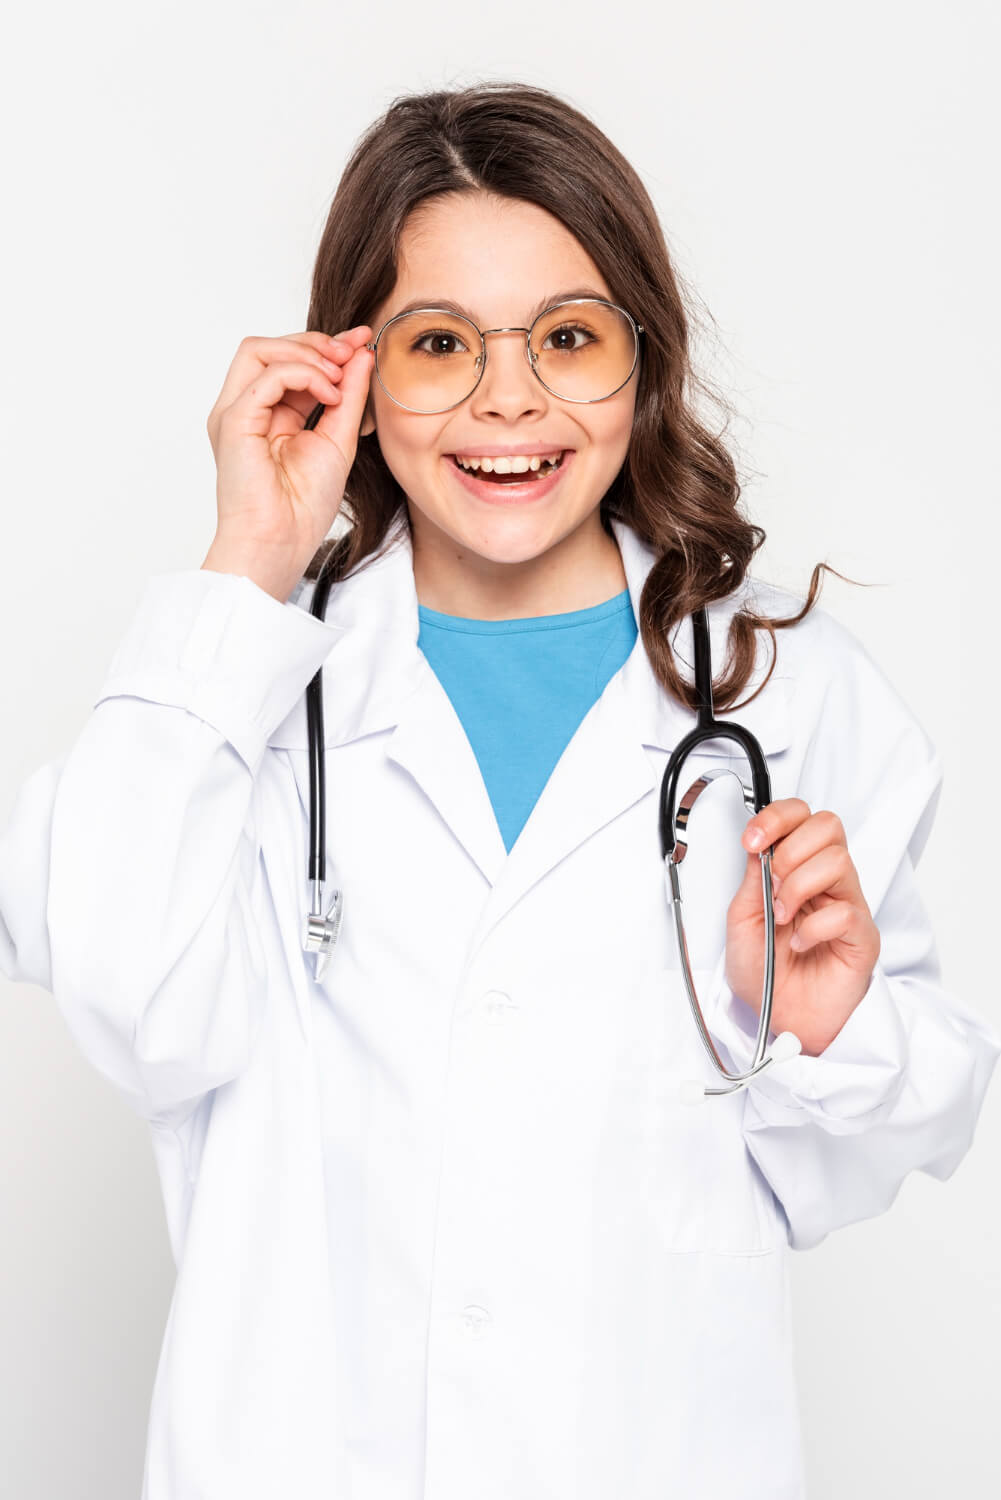
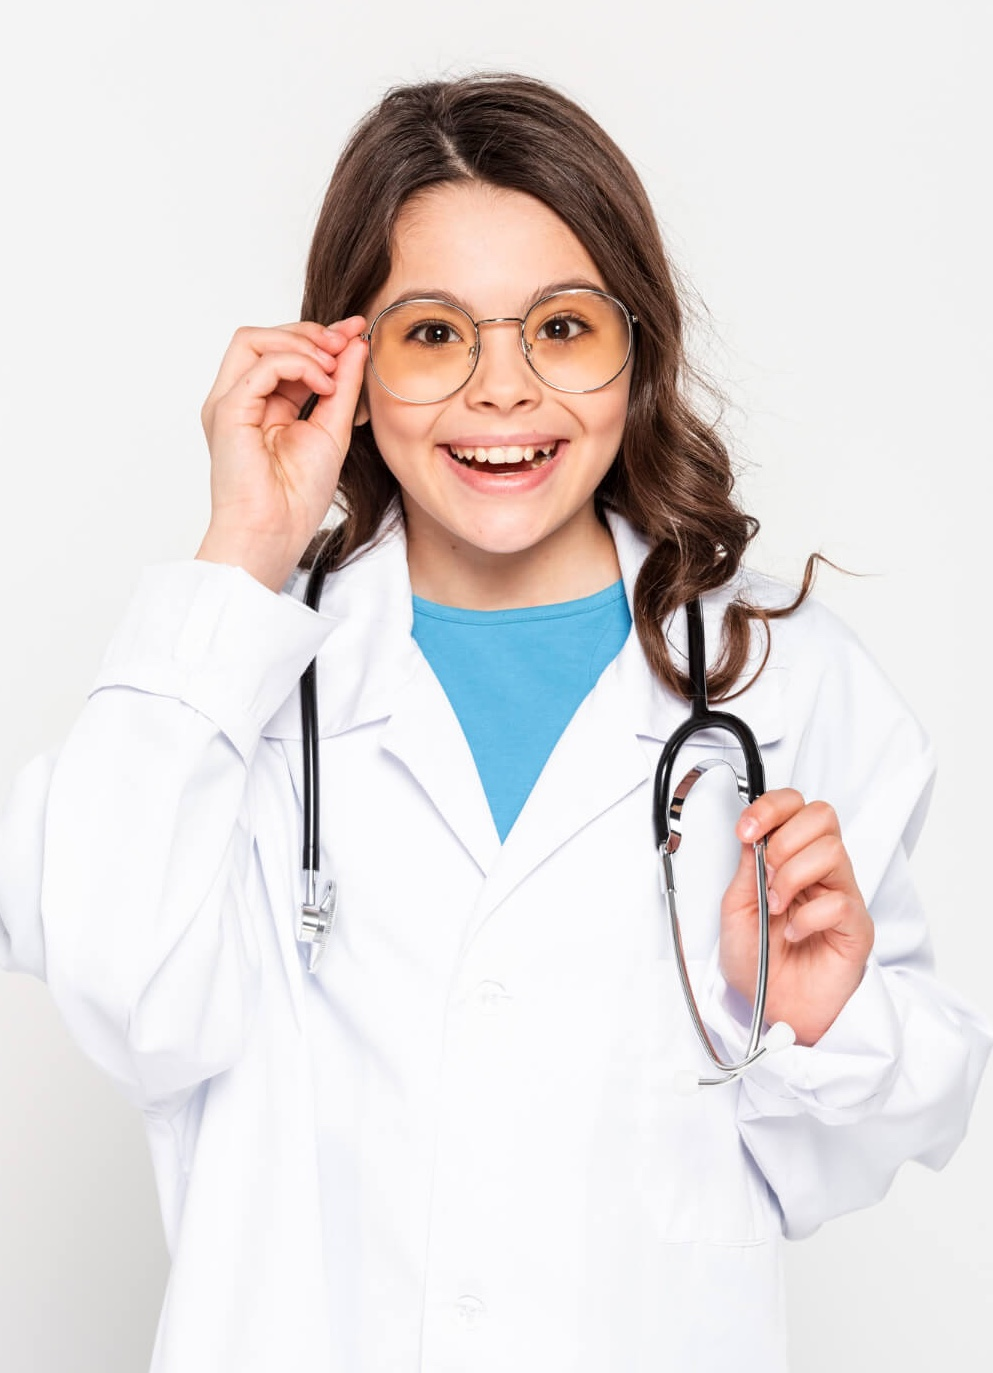
removed hover

diff --git a/src/modules/Complex/containers/ComplexContainer.tsx b/src/modules/Complex/containers/ComplexContainer.tsx
@@ -79,8 +79,8 @@ export const ComplexContainer = ({
                             alt={"service image"}
                             quality="80"
                             priority={true}
-                            fill
-                            className="w-full h-full object-cover rounded-lg absolute top-0 left-0 group-hover:scale-125 ease-in-out duration-1000"
+                            // fill
+                            className="w-full h-full object-cover rounded-lg object-center absolute top-0 left-0"
                           />
                           <div
                             className="p-2 text-light font-comfortaa min-h-[25%] bg-dark/20 w-full rounded-lg 
